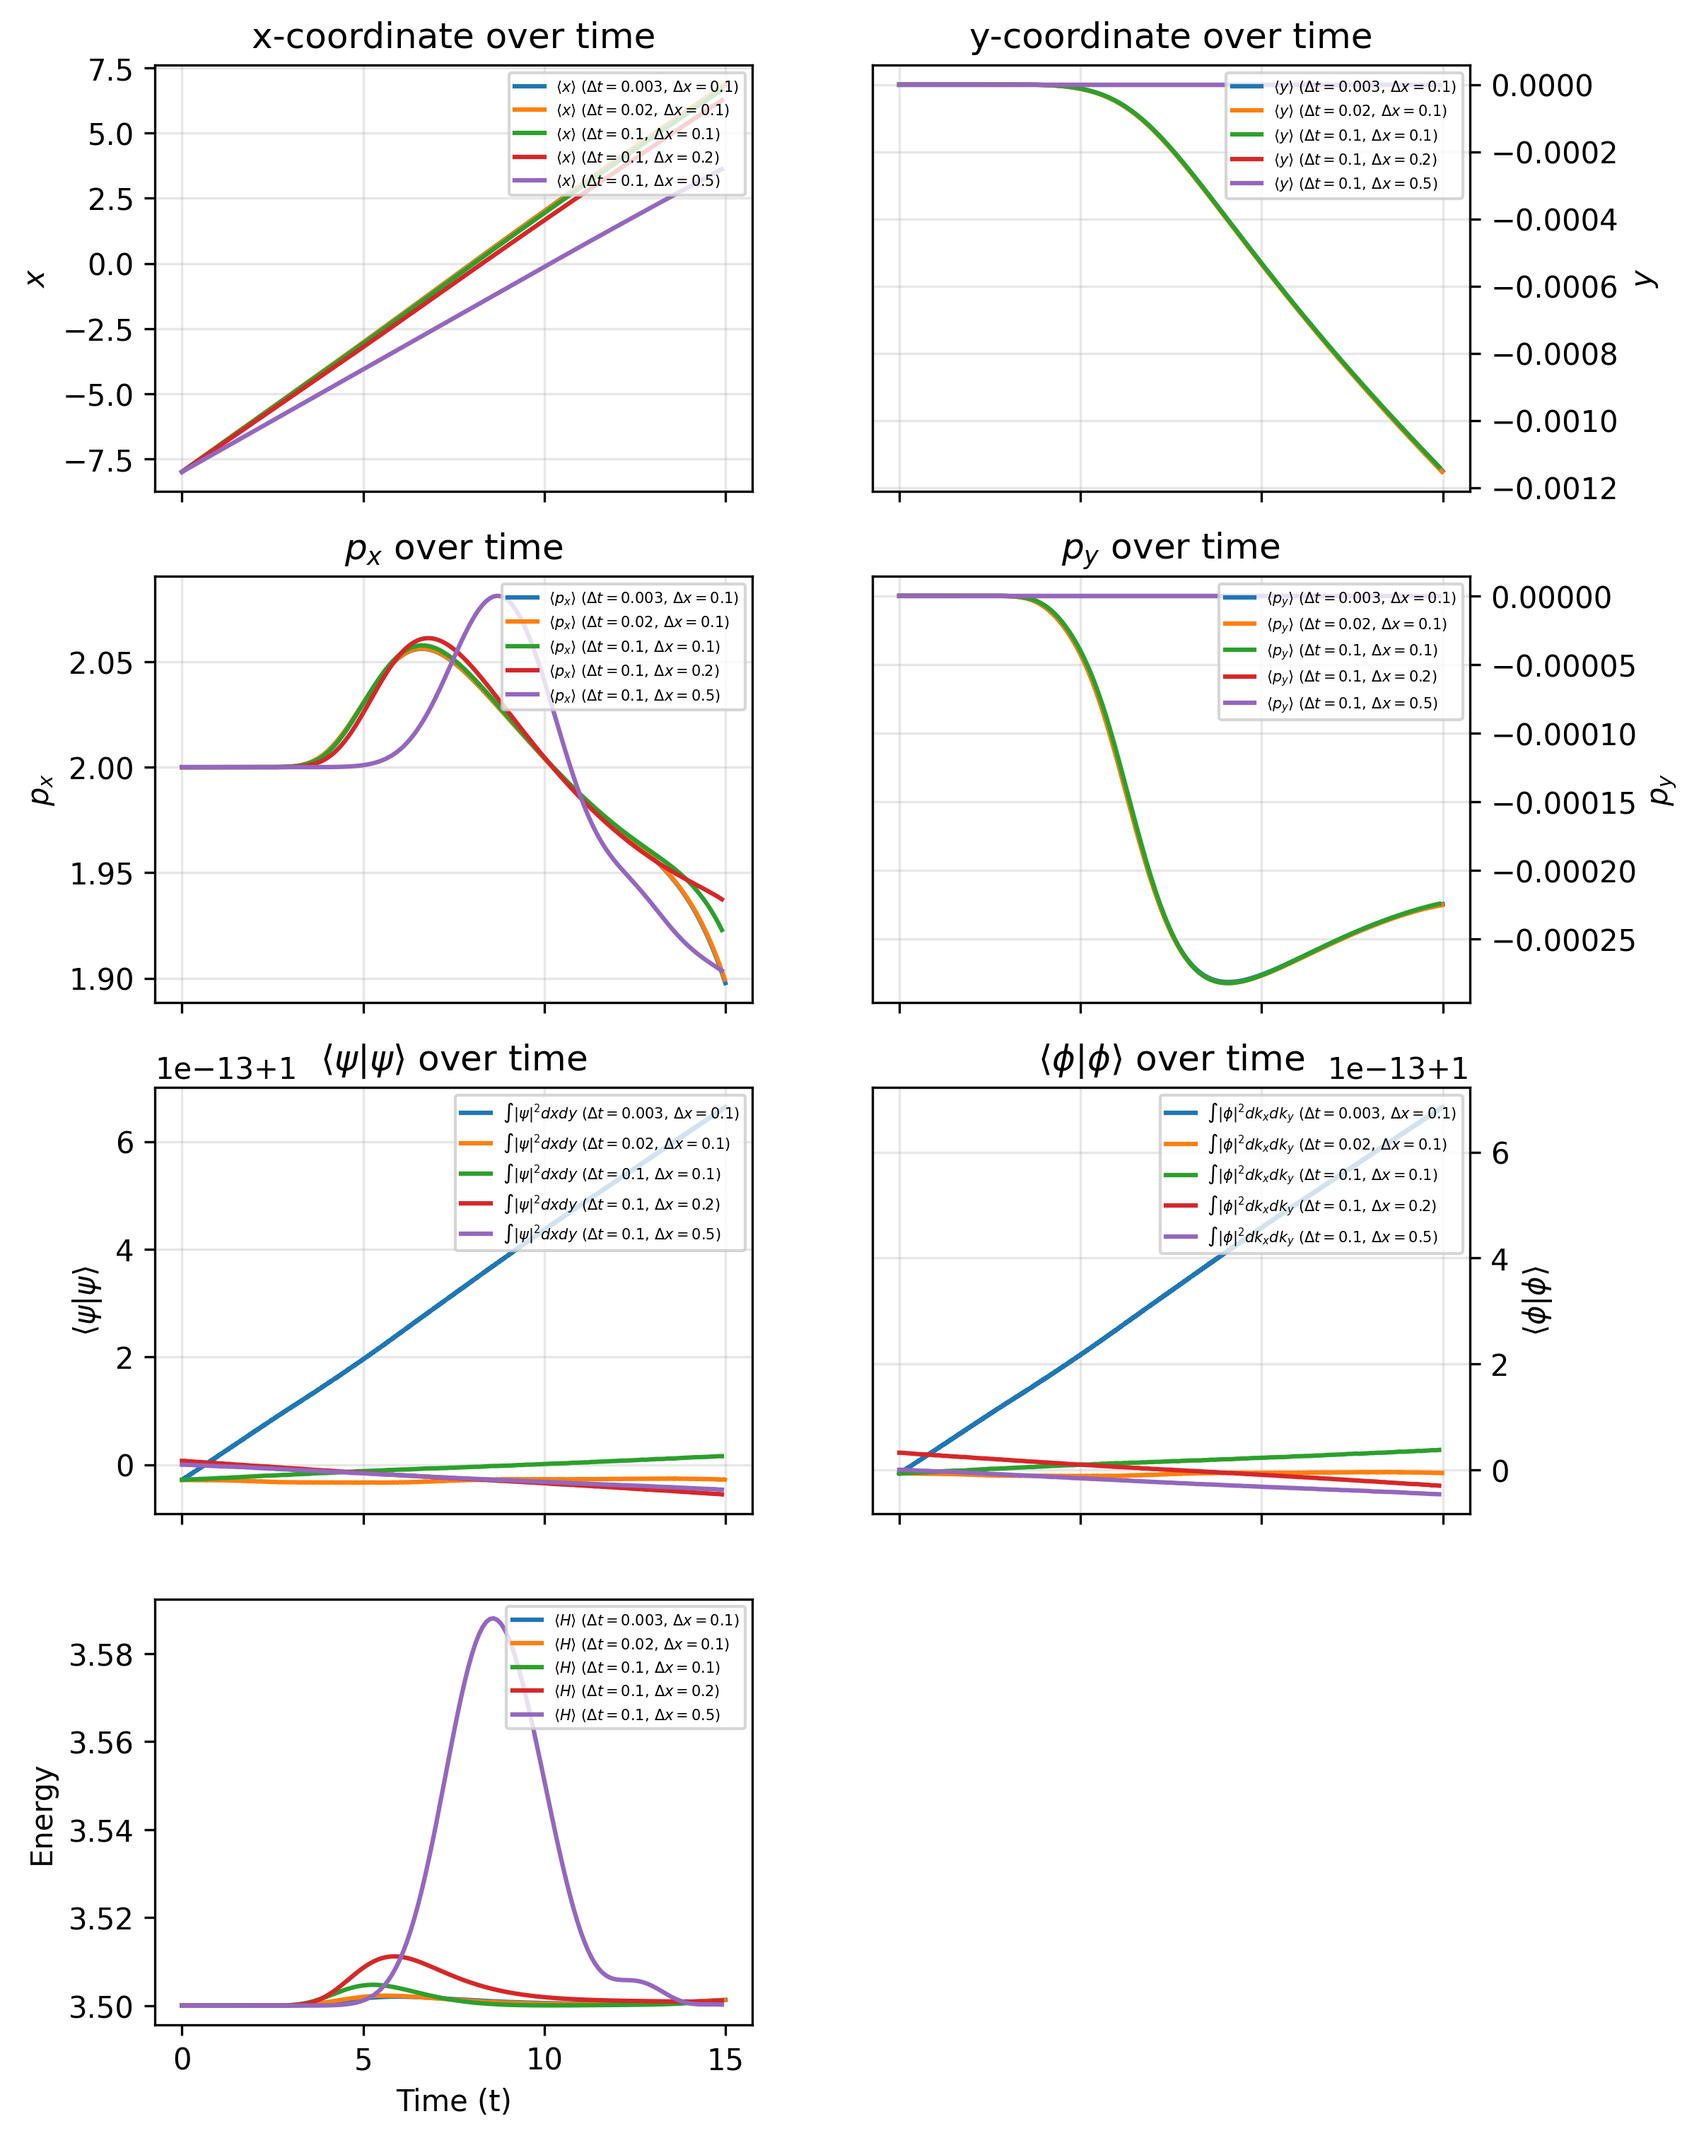
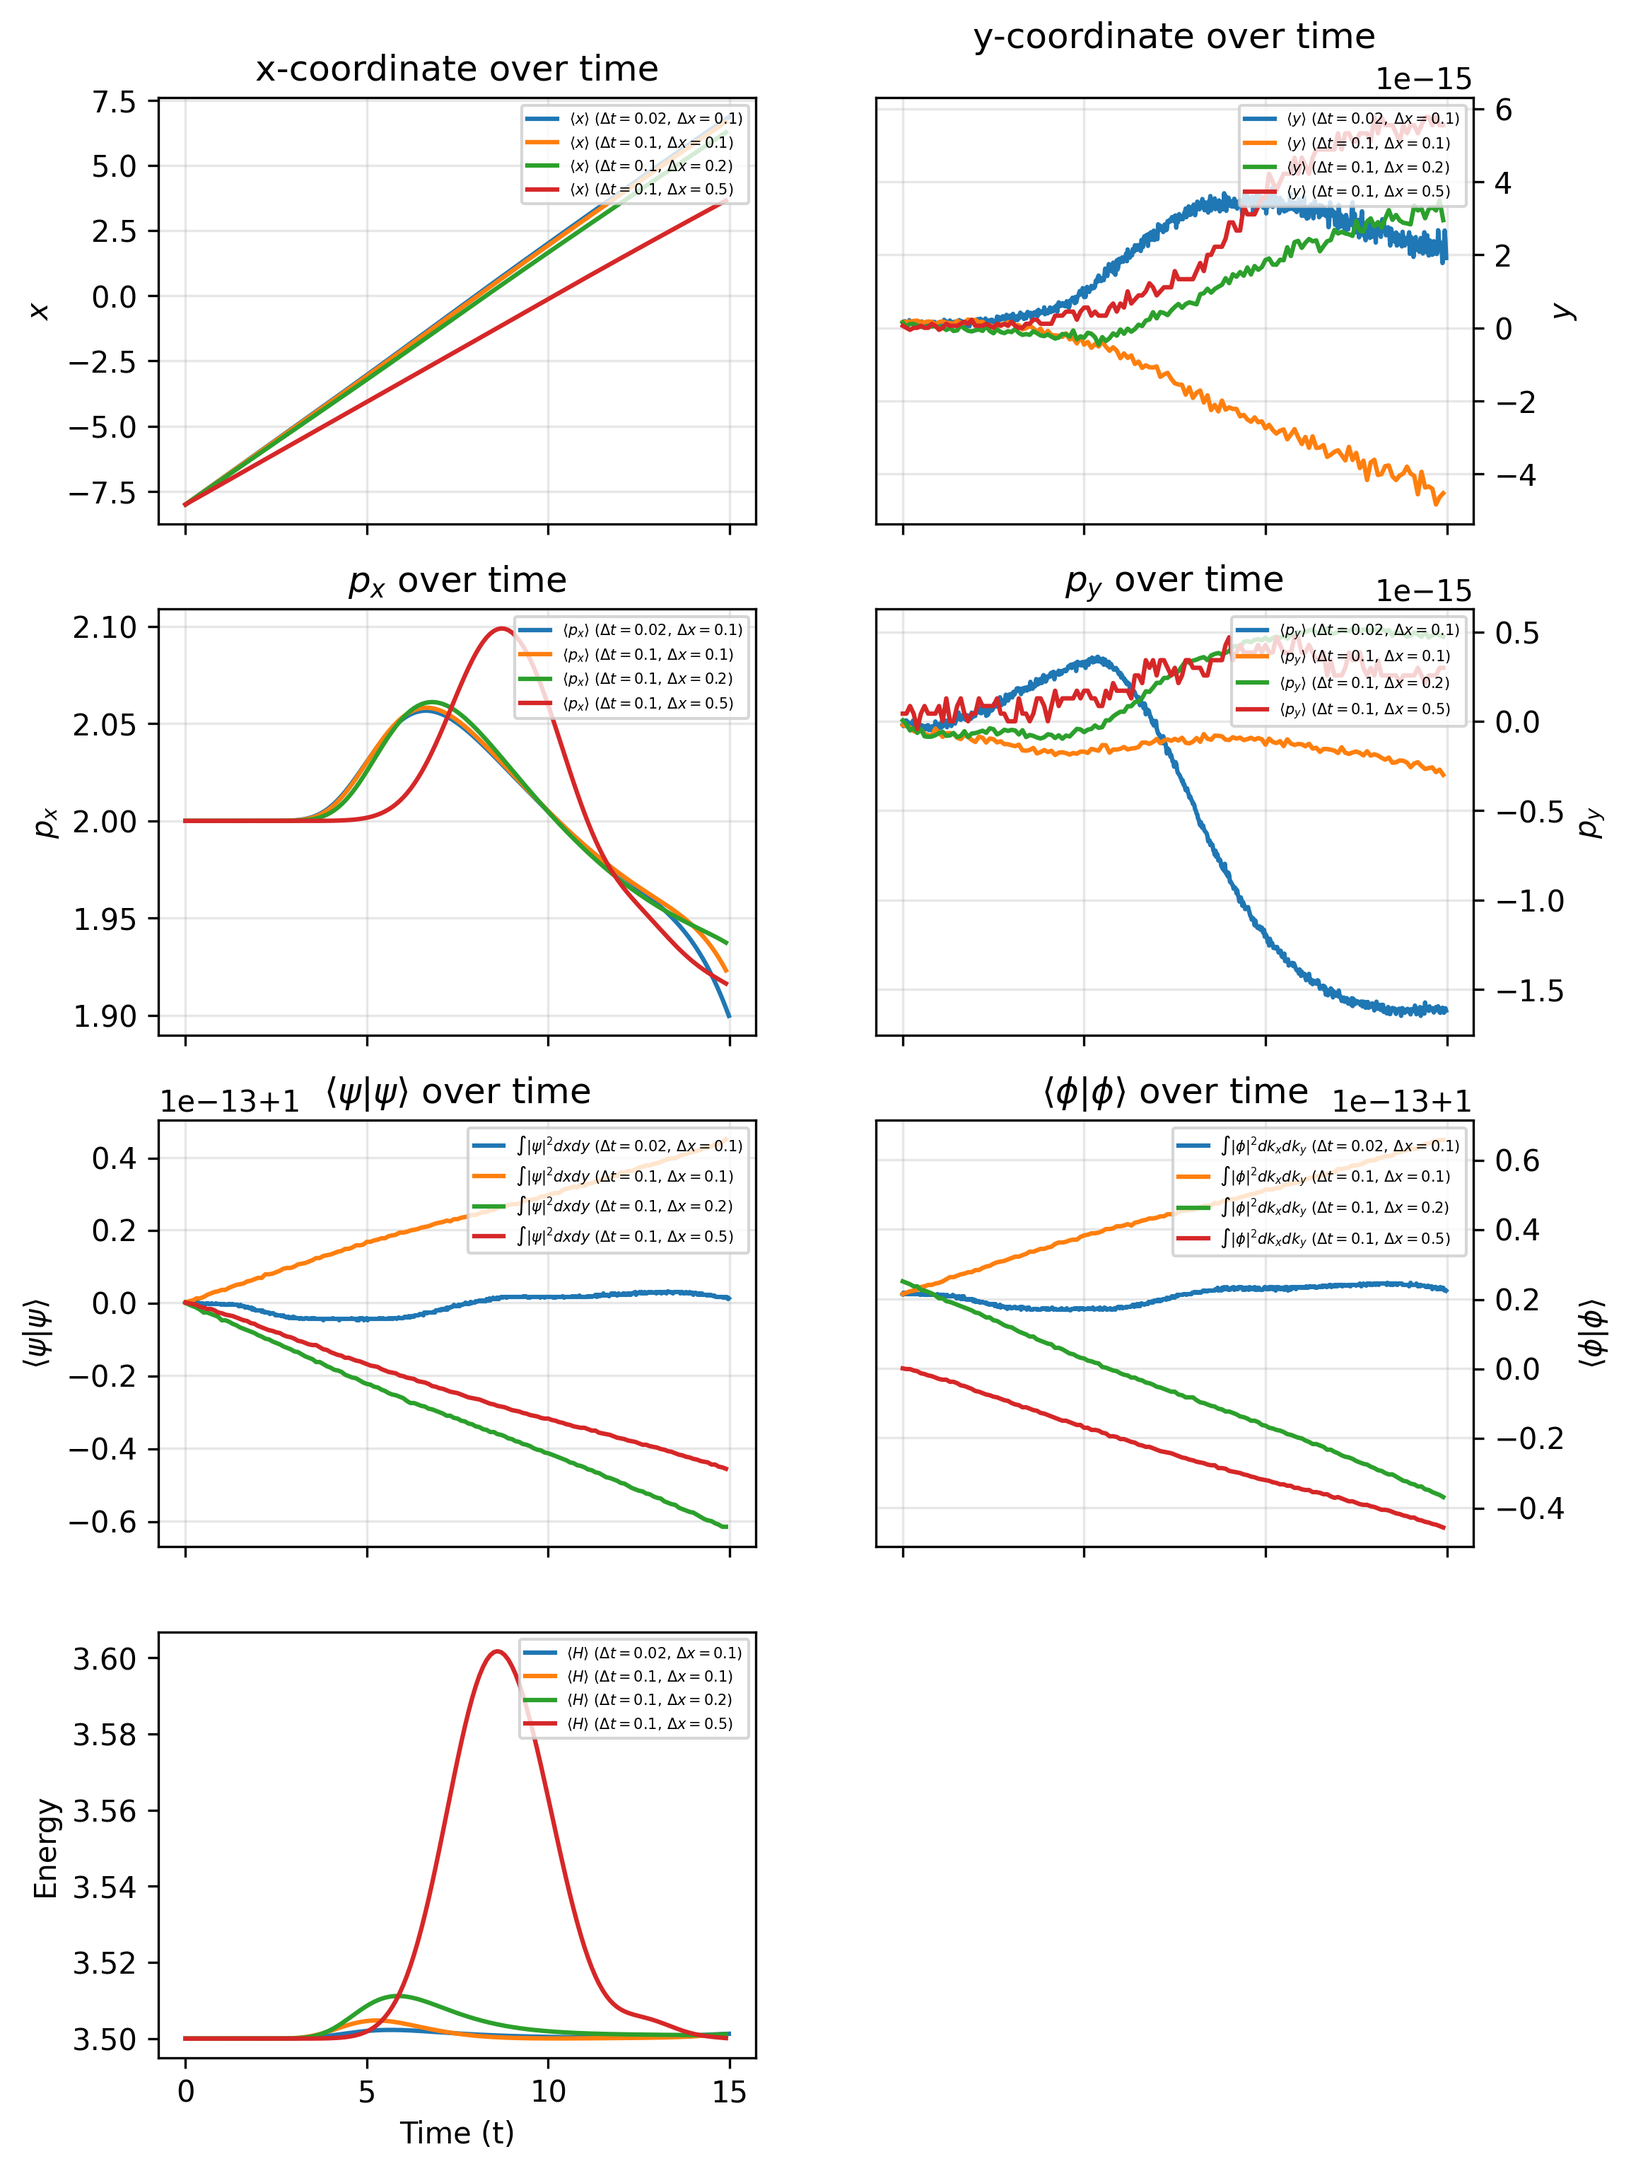
fixed convergence issues

diff --git a/Assignment4/CQM.py b/Assignment4/CQM.py
@@ -548,13 +548,31 @@ def step_sdlf(psi, F_banded, dt):
 ################## 2D case ##########################################################
 #####################################################################################
 
-def init_grid_2d(dx, x_left, x_right, y_down, y_up):
+def init_grid_2d_old(dx, x_left, x_right, y_down, y_up):
     """
     Initializes the 2D spatial grid.
     Uses a single dx for both dimensions, assuming delta y = delta x.
     """
     x = np.arange(x_left, x_right + dx, dx)
     y = np.arange(y_down, y_up + dx, dx)
+    
+    # Create 2D meshgrid matrices
+    X, Y = np.meshgrid(x, y)
+    
+    return x, y, X, Y
+
+def init_grid_2d(dx, x_left, x_right, y_down, y_up):
+    """
+    Initializes the 2D spatial grid.
+    Uses np.linspace to avoid floating-point accumulation errors and ensure symmetry.
+    """
+    # Calculate the exact number of points
+    Nx = int(round((x_right - x_left) / dx)) + 1
+    Ny = int(round((y_up - y_down) / dx)) + 1
+    
+    # Generate exactly symmetric arrays
+    x = np.linspace(x_left, x_right, Nx)
+    y = np.linspace(y_down, y_up, Ny)
     
     # Create 2D meshgrid matrices
     X, Y = np.meshgrid(x, y)
@@ -600,7 +618,8 @@ def disk_potential_2d(X, Y, R=1.5, center_x=0.0, center_y=0.0, v_out=0.0, v_in=1
     """
     Returns a 2D disk potential with radius R 
     """
-    return np.where(((X-center_x)**2 + (Y-center_y)**2) < R**2, v_out, v_in)
+    epsilon = 1e-10
+    return np.where(((X-center_x)**2 + (Y-center_y)**2) < R**2 + epsilon, v_out, v_in)
 
 
 def harmonic_potential_2d(X, Y, omega_x=1.0, omega_y=1.0):
@@ -1293,4 +1312,6 @@ def MiniProject3():
 
 
 if __name__ == "__main__": 
-    MiniProject3()
+    print("-"*15 + "   starting simulations   " + "-"*15)
+    # MiniProject3()
+    print("-"*15 + " all simulations finished " + "-"*15)
